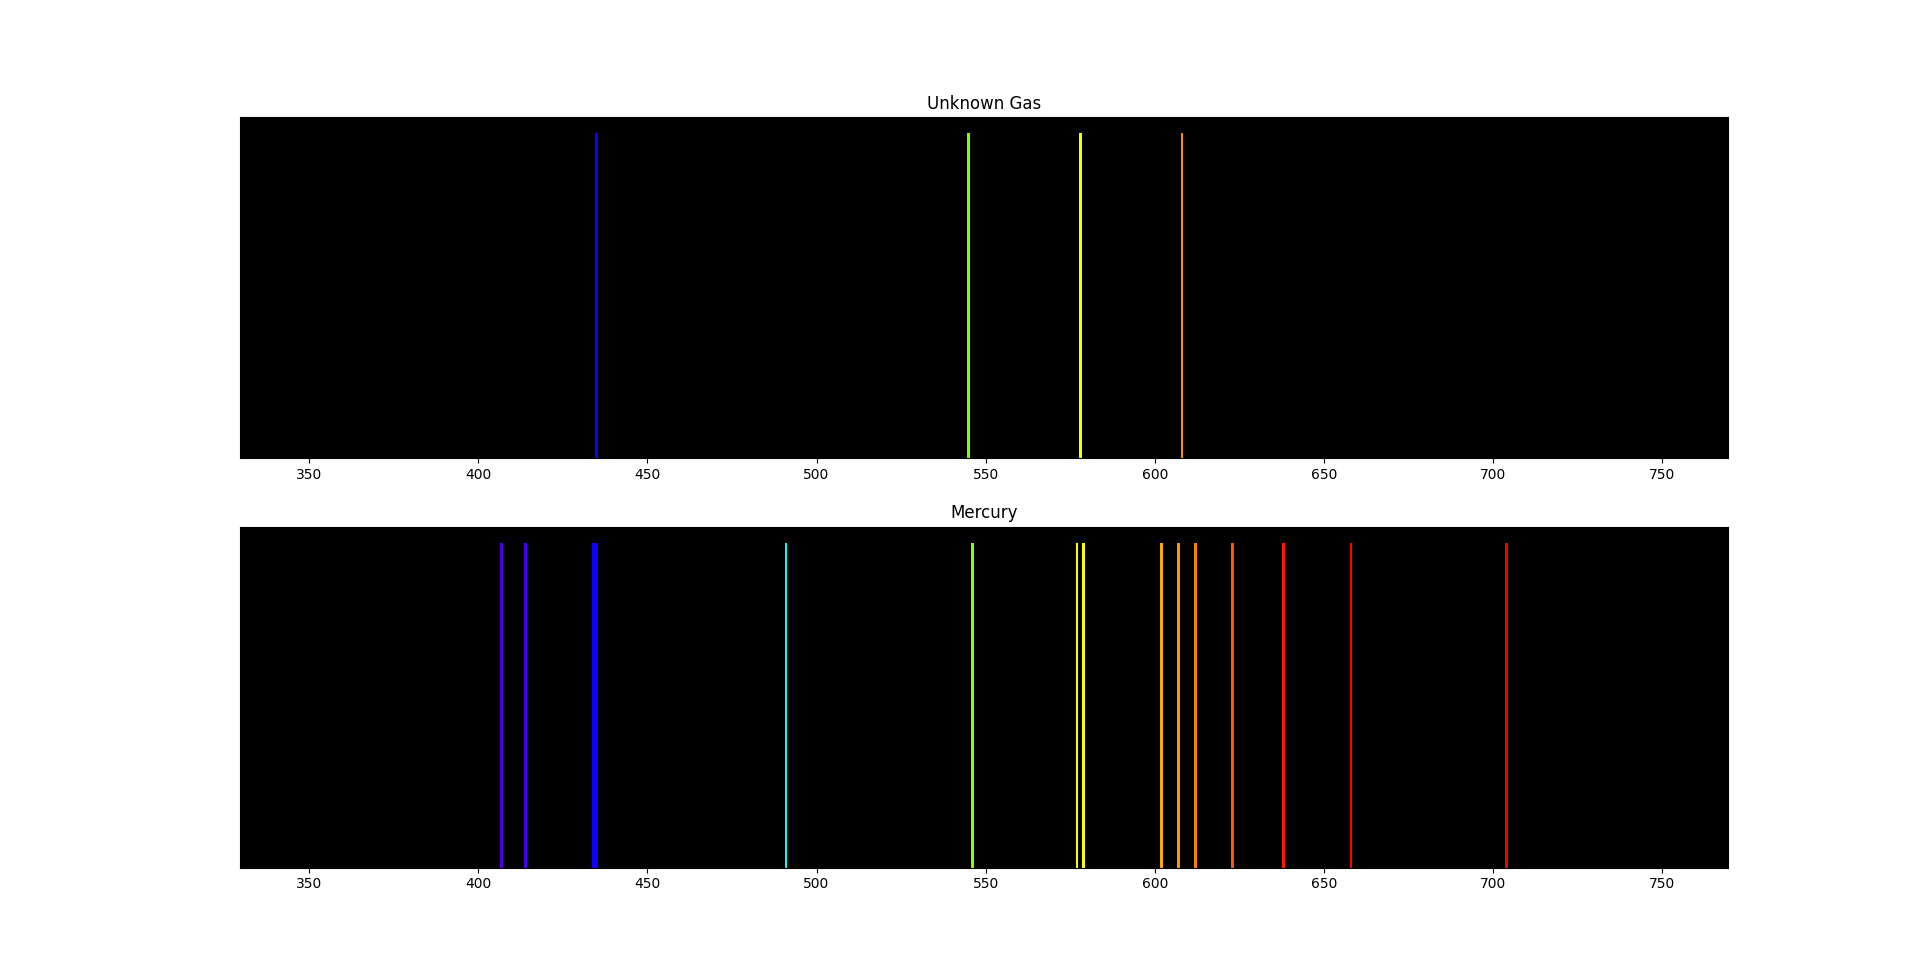
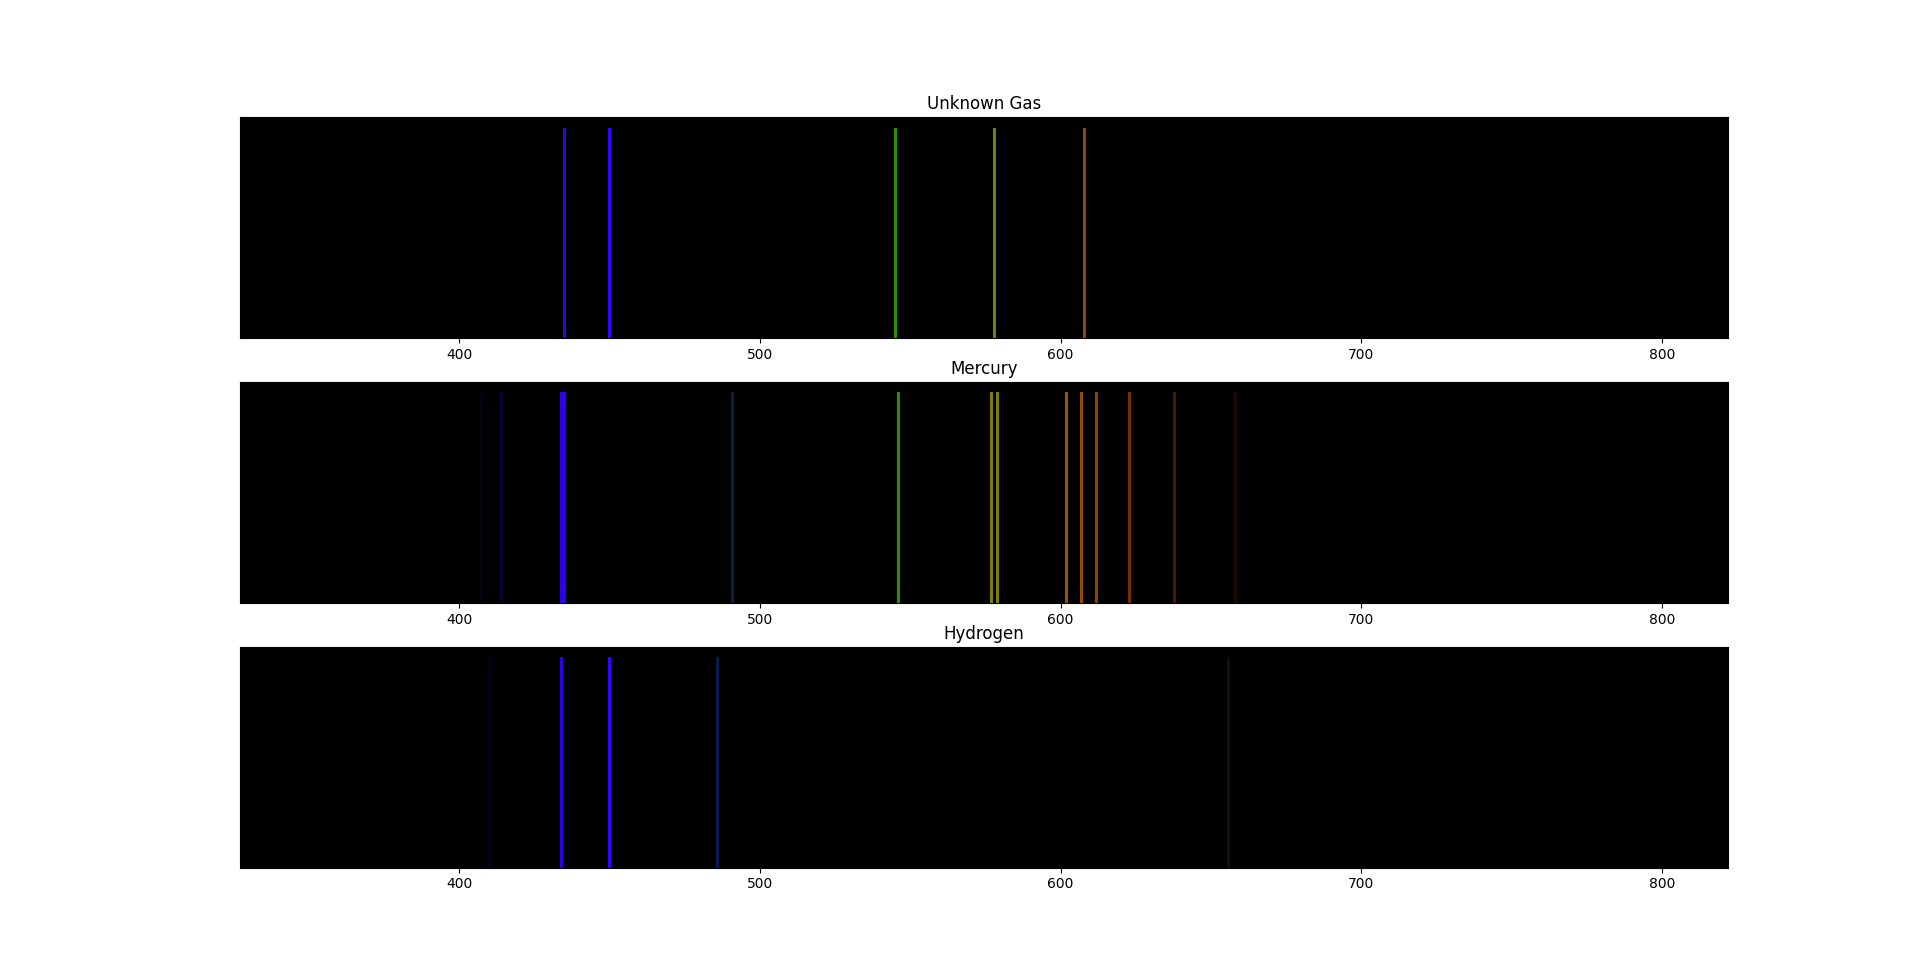
initial working commit

Changed region(s): [[0.125, 0.3385, 0.9062, 0.8923], [0.6875, 0.8923, 0.7188, 0.9231], [0.2188, 0.8923, 0.25, 0.9231]]

diff --git a/spectra.py b/spectra.py
@@ -1,17 +1,42 @@
+from typing import Callable
 import numpy as np
+import pandas as pd
 import matplotlib.pyplot as plt
 plt.rcParams['axes.facecolor'] = 'black'
+import sys
 RED = 0
 GREEN = 1
 BLUE = 2
+XYZ_MAX_INVERSE = 0.5604772321544685
+
+def g(x, m, s1, s2):
+    if x < m:
+        return np.exp(-1/2 * ((x-m)/s1)**2)
+    if x >= m:
+        return np.exp(-1/2 * ((x-m)/s2)**2)
 
 def wav2RGB(wavelength):
     w = int(wavelength)
     if w == 0:
         return (0, 0, 0)
+    
+    R = 1.056 * g(w, 599.8, 37.9, 31.0) + 0.362 * g(w, 442.0, 16.0, 26.7) - 0.065 * g(w, 501.1, 20.4, 26.2)
+    G = 0.821 * g(w, 568.8, 46.9, 40.5) + 0.286 * g(w, 530.9, 16.3, 31.1)
+    B = 1.217 * g(w, 437.0, 11.8, 36.0) + 0.681 * g(w, 459.0, 26.0, 13.8)
+
+    return (R * XYZ_MAX_INVERSE, G * XYZ_MAX_INVERSE, B * XYZ_MAX_INVERSE)
+
+def wav2RGB_bright(wavelength):
+    """
+    Approximation of the XYZ colorspace using simpler intensity functions.
+    Less accurate than wav2RGB, but in general produces brighter lines.
+    """
+    w = int(wavelength)
+    if w == 0:
+        return (0, 0, 0)
 
     # colour
-    if w >= 380 and w < 440:
+    if w < 440:
         R = -(w - 440.) / (440. - 350.)
         G = 0.0
         B = 1.0
@@ -31,7 +56,7 @@ def wav2RGB(wavelength):
         R = 1.0
         G = -(w - 645.) / (645. - 580.)
         B = 0.0
-    elif w >= 645 and w <= 780:
+    elif w >= 645:
         R = 1.0
         G = 0.0
         B = 0.0
@@ -41,45 +66,60 @@ def wav2RGB(wavelength):
         B = 0.0
 
     # intensity correction
-    if w >= 380 and w < 420:
+    if w >= 350 and w < 380:
+        SSS = 0.6 * (w - 350) / (380 - 350)
+    elif w >= 380 and w < 420:
         SSS = 0.3 + 0.7*(w - 350) / (420 - 350)
     elif w >= 420 and w <= 700:
         SSS = 1.0
     elif w > 700 and w <= 780:
         SSS = 0.3 + 0.7*(780 - w) / (780 - 700)
+    elif w > 780 and w <= 800:
+        SSS = -0.3 * (w - 800) / (800 - 780)
     else:
         SSS = 0.0
-
+    
     return (SSS*R, SSS*G, SSS*B)
 
-def make_spectrum(wavelengths: np.ndarray):
-    visible_spectrum = np.arange(350, 750)
+
+def make_spectrum(wavelengths: np.ndarray, wavelength_function: Callable):
+    visible_spectrum = np.arange(350, 800)
     emissions = np.zeros(len(visible_spectrum), dtype=bool)
     for wavelength in wavelengths:
-        emissions[wavelength-350] = 1
+        if wavelength < 800 and wavelength >= 350:
+            emissions[wavelength-350] = 1
+        elif wavelength != 0:
+            print(f"Warning: Wavelength {wavelength} is outside of the visible spectrum, and was not rendered.")
     
-    colors = [wav2RGB(wav * emissions[i]) for i, wav in enumerate(visible_spectrum)]
+    colors = [wavelength_function(wav * emissions[i]) for i, wav in enumerate(visible_spectrum)]
 
     return visible_spectrum, emissions, colors
 
 
 def main():
-    ax1: plt.Axes
-    ax2: plt.Axes
+    args = sys.argv[1:]
 
-    fig, (ax1, ax2)= plt.subplots(2, 1)
+    if len(args) > 0:
+        df = pd.read_csv(args[0])
+        cols = df.columns
+        n = len(cols)
+        fig, axs = plt.subplots(n, 1)
 
-    visible_spectrum, emissions, colors = make_spectrum(np.array([578, 545, 435, 608]))
-    ax1.bar(visible_spectrum, emissions, color=colors, width=1.0)
-    ax1.set_title("Unknown Gas")
-    ax1.get_yaxis().set_visible(False)
+        for i, col in enumerate(cols):
+            wavs = df[col].to_numpy(dtype=np.unsignedinteger)
+            wavs = wavs[~np.isnan(wavs)]
 
-    visible_spectrum, emissions, colors = make_spectrum(np.arange(350, 749)) #np.array([704, 658, 638, 623, 612, 607, 602, 579, 577, 546, 491, 435, 434, 407, 414])
-    ax2.bar(visible_spectrum, emissions, color=colors, width=1.0)
-    ax2.set_title("Mercury")
-    ax2.get_yaxis().set_visible(False)
+            visible_spectrum, emissions, colors = make_spectrum(wavs, wav2RGB)
 
-    plt.show()
+            axs[i].bar(visible_spectrum, emissions, color=colors, width=1.0)
+            axs[i].set_title(col)
+            axs[i].get_yaxis().set_visible(False)
+        plt.show()
+
+        if len(args) > 1:
+            fig.savefig(args[1])
+
+    
 
 if __name__=="__main__":
     main()

diff --git a/analysis.py b/analysis.py
@@ -3,7 +3,8 @@ import matplotlib.pyplot as plt
 import spectra
 
 def main():
-    wavelengths = np.arange(350, 800)
+    low, high = 200, 820
+    wavelengths = np.arange(low, high)
     c_values = np.array([spectra.wav2RGB(wavelength) for wavelength in wavelengths])
     
     r = c_values[:, spectra.RED]
@@ -16,7 +17,7 @@ def main():
     ax.plot(wavelengths, g, 'g')
     ax.plot(wavelengths, b, 'b')
     ax.set_facecolor("white")
-    ax.set_xlim([350, 800])
+    ax.set_xlim([low, high])
     plt.show()
 
 if __name__=="__main__":
